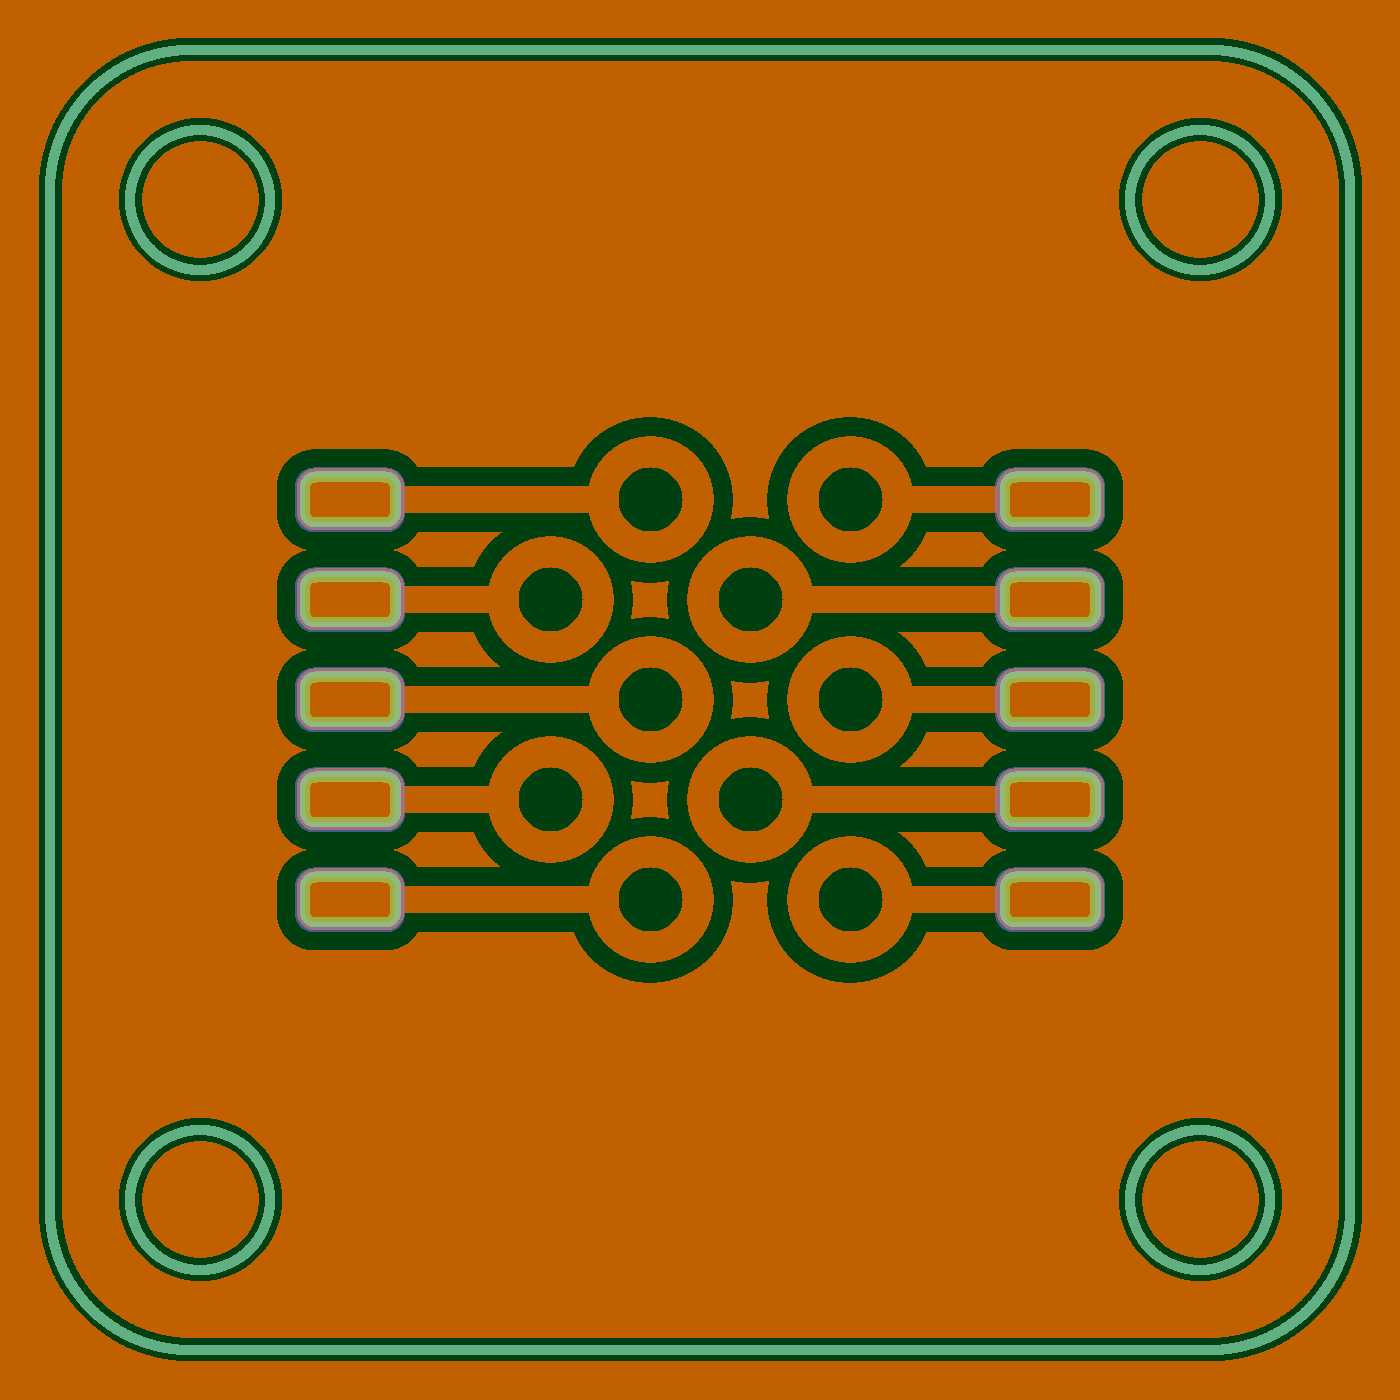
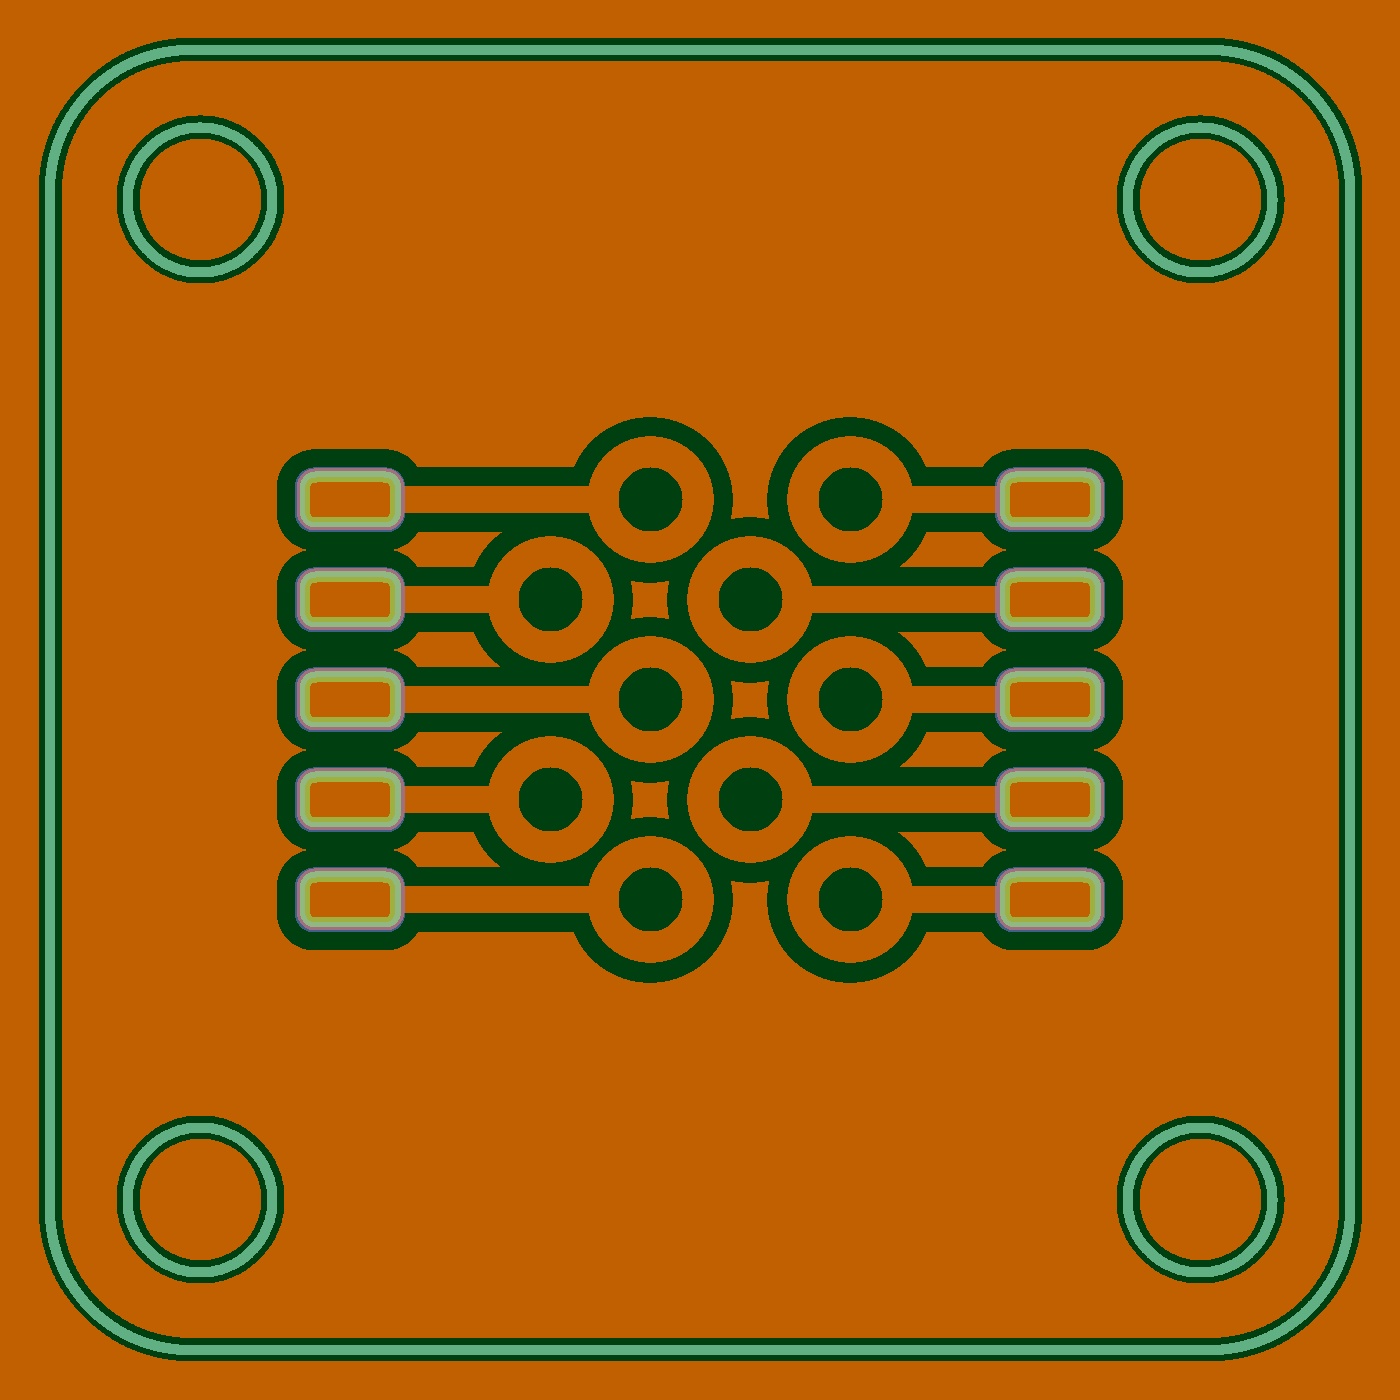
Minor fix

diff --git a/eda/pcb/mask.go b/eda/pcb/mask.go
@@ -73,10 +73,6 @@ func SaveMask(config *config.Config, component *eda.Component) (*bitmap.Bitmap, 
 		nonEmpty = nonEmpty || len(c.Pads) > 0 || len(c.Marks) > 0
 	})
 
-	if !nonEmpty {
-		return mask, silk, nil
-	}
-
 	filename := config.SavePath + "mask.lbrn"
 	silkImage := image.NewSingle(silk, color.Transparent, color.Black)
 	maskImage := image.NewSingle(mask, color.Transparent, color.Black)

diff --git a/eda/lib/rivet/rivet_test.go b/eda/lib/rivet/rivet_test.go
@@ -14,7 +14,7 @@ import (
 
 func TestBoard(t *testing.T) {
 
-	hole := path.Circle(1.4)
+	hole := path.Circle(1.45)
 
 	blank := &eda.Component{
 		CutsOuter: true,
